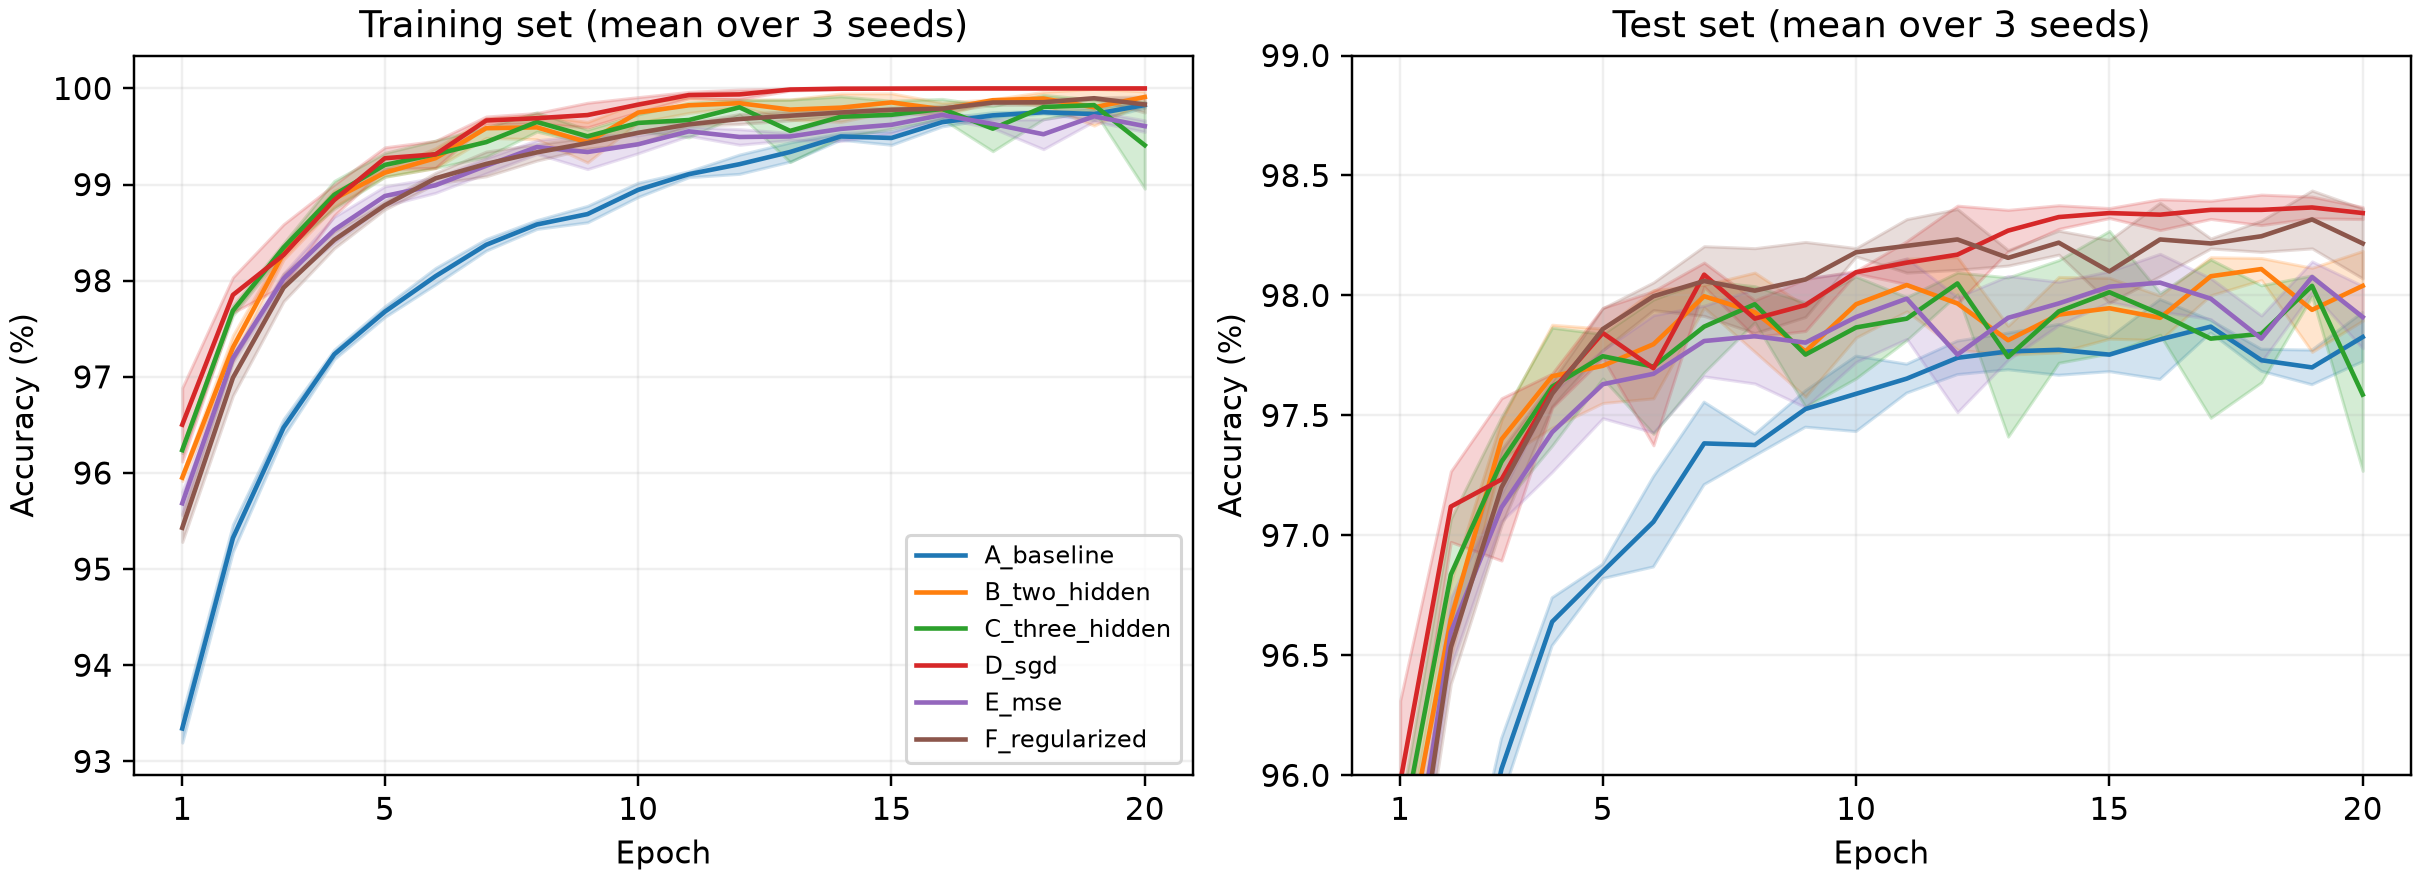
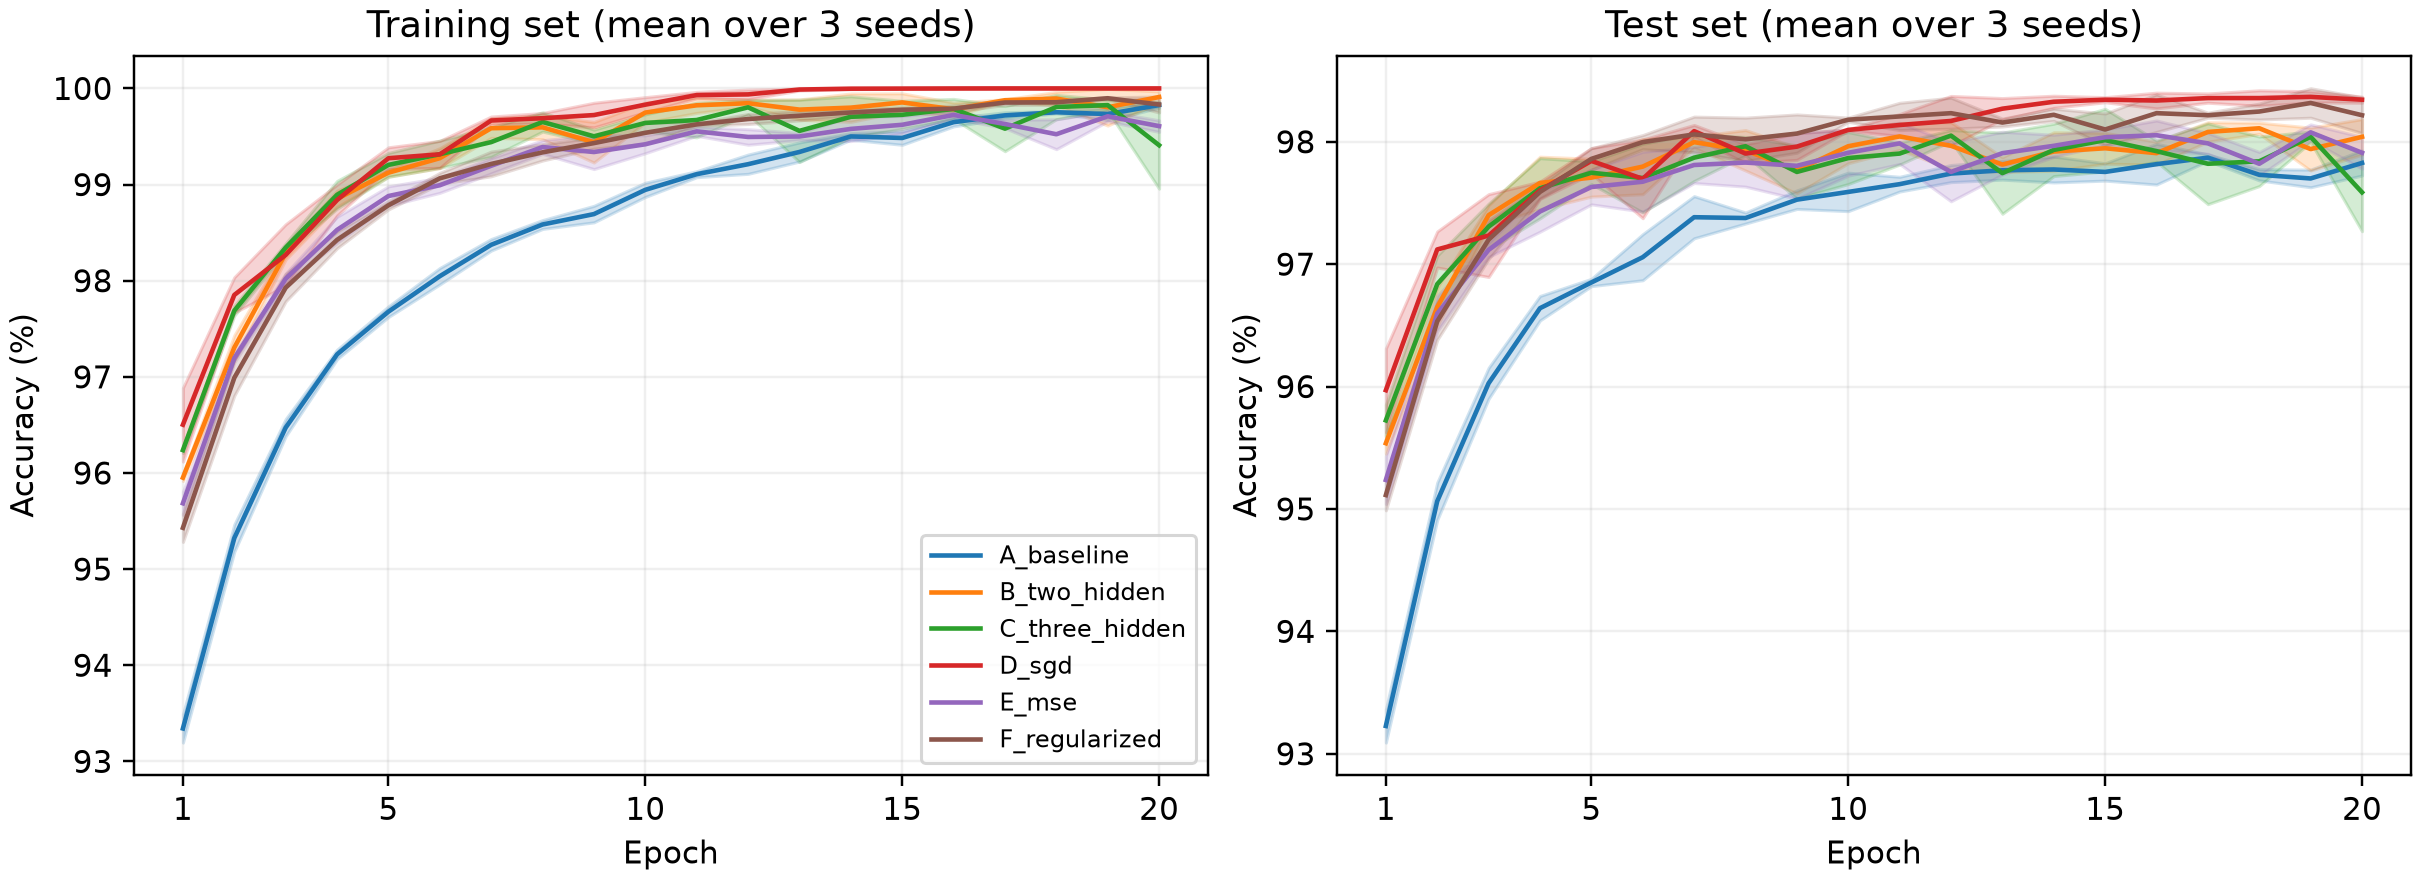
Code update

diff --git a/stage_2/stage2.py b/stage_2/stage2.py
@@ -258,8 +258,6 @@ def plot_results(folder, results, seeds):
                    title=f'{title} (mean over {len(seeds)} seeds)')
             if log:
                 ax.set_yscale('log')
-            elif column == 6:
-                ax.set_ylim(96, 99)
             ax.grid(alpha=0.2)
         axes[0].legend(fontsize=8)
         fig.savefig(figures / f'{filename}.png', dpi=220)
